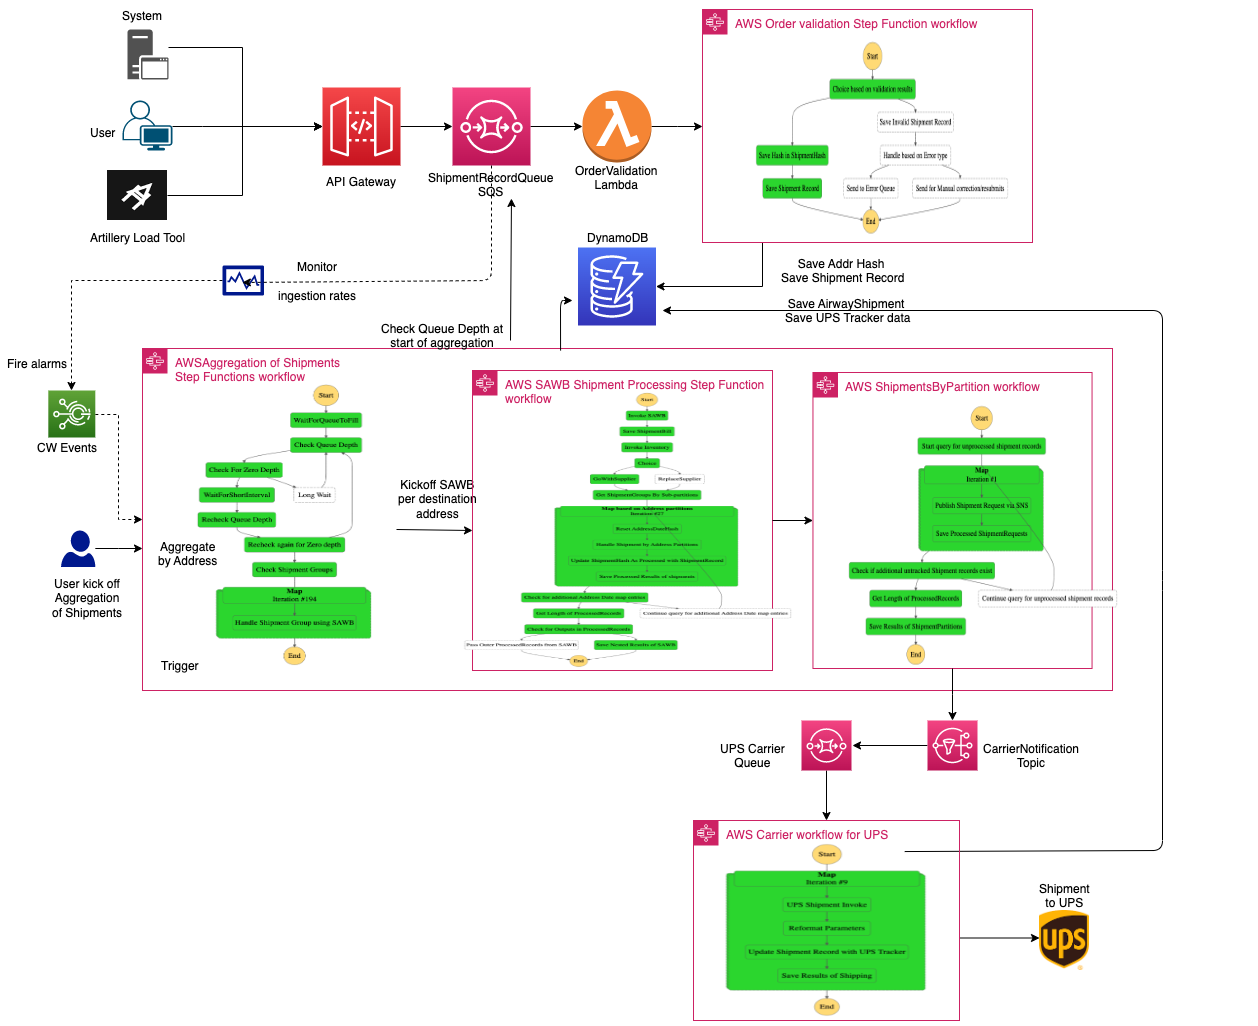
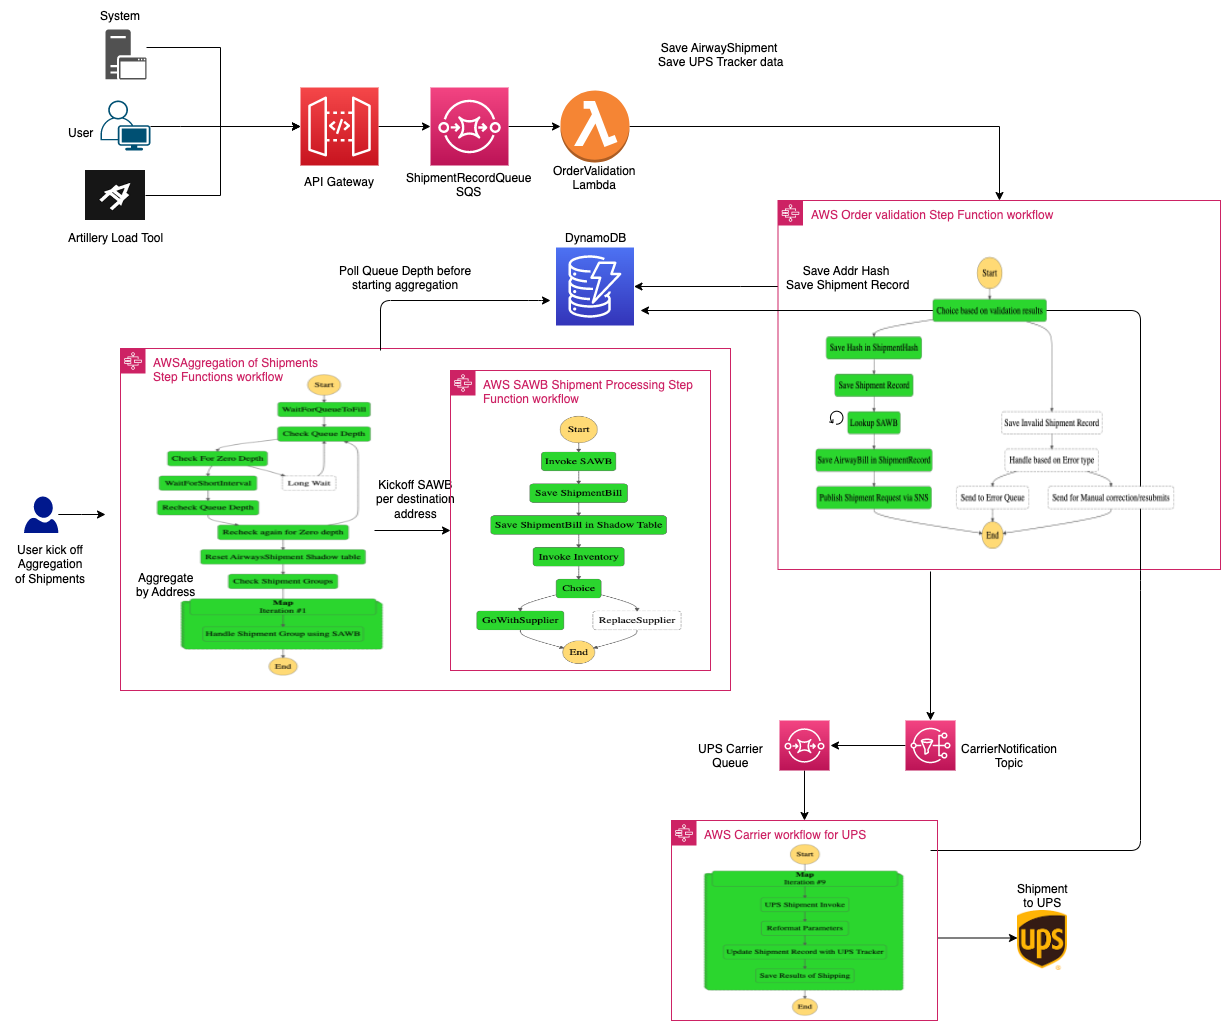
Update readme

diff --git a/README.md b/README.md
@@ -5,7 +5,7 @@ This sample project demonstrates airway shipment orchestration using AWS Serverl
 ##  Project structure
 The project contains source code and supporting files that you can deploy with the SAM CLI to build and test the sample application. It includes the following files and folders:
 * functions - AWS Lambda functions to handle processing of shipments requests from SQS and integration with various backend systems (including UPS shipping api).
-* statemachines - Definition for the AWS Step Functions that orchestrates the complex workflow of managing multiple Lambda and nested AWS child Step Functions.
+* statemachine - Definition for the AWS Step Functions that orchestrates the complex workflow of managing multiple Lambda and nested AWS child Step Functions.
 * template.yaml - A SAM template that defines the application's AWS resources.
 * testing - folder that contains artillery test configuration script for injecting requests into the system along with CloudWatch dashboard json template for monitoring various resources.
 
@@ -16,19 +16,17 @@ High level architecture:
 ![](imgs/AirwaysShipmentWorkflow-HighlevelArch.png)
 
 ### Step Functions:
-* `BusinessValidationStateMachine1` initially checks for validation errors and decides on normal processing, or manual resubmission or error processing based on validation errors. It creates an address hash based on shipment address along with a date + random partition hash (as there can be large number of shipments to same destination). It saves the individual records, hashes and shipment address in DynamoDB. Failed validations are passed onto Dead Letter Queue or different queues based on type of validation errors.
-![](imgs/BusinessValidationStateMachine1.png)
+* `AirwayShipmentWorkflowStateMachine1` initially checks for validation errors and decides on normal processing, or manual resubmission or error processing based on validation errors. It creates an address hash based on shipment address along with a date + random partition hash (as there can be large number of shipments to same destination). It saves the individual records, hashes and shipment address in DynamoDB. Then it waits for a Airways shipment bill to be generated for the destination address thats recent enough (handled by another state machine) before proceeding with association of the SAWB (shipment airways bill) with the actual shipment by the carrier using SNS. Failed validations are passed onto Dead Letter Queue or different queues based on type of validation errors.
 
-* `AggregationKickoffStateMachine2` aggregates the orders based on destination address for processing once the batch of shipments have been validated. This can be kicked off manually once we know the batch of shipment records has been validated and saved. For each unique shipment address in the batch, an instance of `SAWBProcessorStateMachine3` would be created using Step Funtion's Map construct. The AggregationKickoff Step Function invocation has to be done just once per submitted batch with no real inputs required for the AggregationKickoff state machine.
+Once the Airway shipment bill is associated with the shipment, it then fires off a SNS notification for handling by associated Carriers. The Carrier Notification SNS topic in turn publishes to a Shipment Carrier Queue. There can be multiple  subscribers for the SNS Topic (example: UPS, Fedex, USPS etc.) and each carrier workflow to handle the shipments can work at same time in a disconnected manner as the SNS/SQS decouples it from the main aggregation from actual carrier shipping operations.
+![](imgs/AirwayShipmentWorkflowStateMachine1.png)
 
-Option to automatically trigger the StepFunction based on number of shipments received in the `ShipmentRecordQueue` is also suported. Once the messages received in a minute grows beyond 300 (monitored using CloudWatch SQS related Metrics), it goes into alarm state and an alarm event gets published to a SNS topic that in turn invokes a Lambda function to trigger the Step Function execution. Edit the SAM template to tweak the alarm thresholds. For low volume testing, the 300 shipments might not be reached and in those cases, a manual trigger of the StepFunction execution would be required.
+* `AggregationKickoffStateMachine2` aggregates the orders based on destination address for processing once the batch of shipments have been validated. This can be kicked off manually once we know the specific OEM vendor handling the batch of shipment records that has been validated and saved. Invoke it using a json construct mentioning 'OEM' as  the key (Sample input: `{ "OEM": "MyTestOEM1" }` ). For each unique shipment address in the batch, an instance of `SAWBProcessorStandaloneStateMachine3` would be created using Step Function's Map construct. The AggregationKickoff Step Function invocation has to be done just once per submitted batch with the OEM for the AggregationKickoff state machine.
+
 <img src="https://github.com/sparameswaran/airway-shipment-orchestrator/blob/dev/imgs/AggregationKickoffStateMachine2.png" width=25% height=25%>
 
-* `SAWBProcessorStateMachine3` handles Airway shipment generation per unique destination address. Then it starts handling the shipments using a Map construct in Step Functions to handle the individual line items associated with an unique shipment address and assigned date + random partition. It takes an input argument of an existing hash of destination addresses partitions.
-<img src="https://github.com/sparameswaran/airway-shipment-orchestrator/blob/dev/imgs/SAWBProcessorStateMachine3.png" width=25% height=25%>
-
-* `ShipmentPartitionHandlerStateMachine4` associates the Airway shipment bill  with the shipment and then fires off a SNS notification for handling by associated Carriers. The Carrier Notification SNS topic in turn publishes to a Shipment Carrier Queue. There can be multiple  subscribers for the SNS Topic (example: UPS, Fedex, USPS etc.) and each carrier workflow to handle the shipments can work at same time in a disconnected manner as the SNS/SQS decouples it from the main aggregation from actual carrier shipping operations.
-<img src="https://github.com/sparameswaran/airway-shipment-orchestrator/blob/dev/imgs/ShipmentPartitionHandlerStateMachine4.png" width=25% height=25%>
+* `SAWBProcessorStateMachine3` handles Airway shipment bill generation per unique destination address. Then it saves the shipment bill into two tables - AirwayShipmentDetail and AirwayShipmentDetailShadow (just ongoing shipment bills that would be cleaned on each new aggregation kickoff). It takes an input argument of an existing hash of destination addresses partitions. Depending on available inventory, it would choose to go with existing or replacement supplier.
+<img src="https://github.com/sparameswaran/airway-shipment-orchestrator/blob/dev/imgs/SAWBProcessorStandaloneStateMachine3.png" width=25% height=25%>
 
 * `UPSShipmentHandlerStateMachine5` is the carrier specific workflow to handle the shipments by invoking actual carrier service endpoint and then associating the carrier tracker id and shipping response with the shipment.
 <img src="https://github.com/sparameswaran/airway-shipment-orchestrator/blob/dev/imgs/UPSShipmentHandlerStateMachine5.png" width=25% height=25%>
@@ -48,17 +46,21 @@ All the below tables are configured with on-demand capacity to handle large thro
 
 * `AirwaysShipmentDetail` contains the airway shipment bill generated per unique address against the aggregated shipments for a given batch submission.
 
+* `AirwaysShipmentDetailShadow` contains the current active set of airway shipment bill generated per unique address against the aggregated shipments for a given batch submission that gets cleaned up on every new OEM shipment aggregation kickoff.
+
 ![](imgs/DynamoDB-Structure.png)
 
 ### Key API Gateway and Lambda Functions
-* `AirwaysShipmentRestAPI` is an AWS APIGateway endpoint that accepts individual shipment records over a REST endpoint for submission to the `ShipmentRecordQueue` SQS Destination.
+* `AirwaysShipmentRestAPI` is an AWS APIGateway endpoint that accepts individual shipment records over a REST endpoint for submission to the `ShipmentRecordQueue` SQS Destination. Based on the OEM vendor, it would attach a message attribute to indicate the OEM vendor to the SQS publish.
 ![](imgs/APIGateway-Config.png)
 
-* `OrderValidationFunction` AWS Lambda Function consumes the shipment records from the `ShipmentRecordQueue` (submitted manually or via API Gateway integration) SQS Queue and validates the records before kicking off the `BusinessValidationStateMachine` for further processing per record.
+* `OrderValidationFunction` AWS Lambda Function consumes the shipment records from the `ShipmentRecordQueue` (submitted manually or via API Gateway integration) SQS Queue and validates the records before kicking off the `AirwayShipmentWorkflowStateMachine1` for further processing per record.
 
 * `AirwayShipmentGeneratorFunction` generates the airway shipment record while the Inventory/Supplier act as minor function for generating existing inventory and supplier information;
 
-* `ShipmentAddressGrouperFunction` and `ShipmentAddressDateGrouperFunction` are functions to lookup shipments by just destination address or along with the random partition that have not been assocaited with a carrier.
+* `SAWBShadowTableLookupFunction` lookups the latest airways shipment bill that matches a given OEM vendor (needs to have been generated within last 5 minutes or other user specified time window). This function is used by the AirwayShipmentWorkflowStateMachine1 to check and retry for the airway shipment bill generation in a loop before proceeding with association of the bill with individual shipment and SNS publish for carrier handling.
+
+* `ShipmentAddressGrouperFunction` and `ShipmentAddressDateGrouperFunction` are functions to lookup shipments by just destination address or along with the random partition that have not been associated with a carrier.
 
 * `UPSShipperFunction` is the UPS shipment handler function invoking UPS. Due to rate limits, it simulates the UPS Shipping response rather than actually hitting the UPS shipping endpoint. To truly invoke UPS, edit the environment variable `SIMULATE` to `false`, and also edit the client API ID and Secret and related Shipper Account Number with valid entries before redeploying the function.
 
@@ -66,27 +68,24 @@ All the below tables are configured with on-demand capacity to handle large thro
 Detailed architecture:
 ![](imgs/AirwaysShipmentWorkflow.png)
 
-The design allows Divide and Conquer using Child Step Functions to handle each distinct shipment address and further dividing the shipments using sub-partition based on date and some random numbers to ensure a single Step Function does not hit its [25K max execution event history](https://docs.aws.amazon.com/step-functions/latest/dg/bp-history-limit.html) while also increasing the parallelism using [Map](https://docs.aws.amazon.com/step-functions/latest/dg/amazon-states-language-map-state.html) constructs to fire off additional child step functions. The design was tested against 20K shipment requests with majority going to a specific destination address.
-
 The DynamoDB tables are created with on-demand capacity rather than provisioned to allows scaling on demand with higher loads. Additional reason for sub-partitioning is to avoid Hot Partition Key problem with DynamoDB when majority of the shipments go to the same destination address compared to rest.
 
-The main aggregation workflow is decoupled from the final carrier invocations using SNS Topic + SQS Queue. This design allows plugging in different carrier implementations with message filtering/selection and implementing routing to appropriate carrier, and enabling buffering and throttling when dealing with carriers without affecting main aggregation workflow.
+The individual shipment validation and aggregation workflow are decoupled from the final carrier invocations using SNS Topic + SQS Queue. This design allows plugging in different carrier implementations with message filtering/selection and implementing routing to appropriate carrier, and enabling buffering and throttling when dealing with carriers without affecting main aggregation workflow.
 ![](imgs/StepFunctionMapStructure.png)
 
 * Airways Shipment system accepts individual shipment requests via an API endpoint (deployed via SAM template) that gets saved as individual messages in `ShipmentRecordQueue` SQS Queue.
 * `OrderValidatorFunction` Lambda function subscribed to the `ShipmentRecordQueue` SQS Queue consumes the batch of messages and starts validating the entries and marks errors as required.
-  * For each individual message, the function creates a hash based on the shipping destination address.
-  * It then invokes `BusinessValidationStateMachine1` Step Function for each individual message passing along the actual shipment record, address hash along with any validation errors.
-* `BusinessValidationStateMachine1` Step Function goes through a decision tree to either process normally, and for invalid shipment submissions, save them in `InvalidShipmentRecord` table before deciding error handling via a Dead Letter Queue (DLQ) (`ShipmentRecordDLQueue`) or manual resubmission via  a different queue (`ShipmentRecordManualResubmitQueueName`) based on the error type.
-* Fully validated and error free shipments are then saved in DynamoDB Tables. The specific Address Hash is saved in `ShipmentHash` table with status indicating it was not processed while the complete message including the shipment record and addr hash is saved in `ShipmentRecord` table.
-* Once all the messages have been validated and saved using the above 2 services, the messages can be aggregated and processed for actual shipment.
-* The `AggregationKickoffStateMachine2` is invoked (no need for actual payload) and it queries DynamoDB `ShipmentHash` table for unprocessed unique addresses.
+  * For each individual message, the function creates a hash based on the shipping destination address and OEM vendor (passed as a SQS Message attribute along with actual shipment payload).
+  * It then invokes `AirwayShipmentWorkflowStateMachine1` Step Function for each individual message passing along the actual shipment record, address hash along with any validation errors.
+* `AirwayShipmentWorkflowStateMachine1` Step Function goes through a decision tree to either process normally, and for invalid shipment submissions, save them in `InvalidShipmentRecord` table before deciding error handling via a Dead Letter Queue (DLQ) (`ShipmentRecordDLQueue`) or manual resubmission via  a different queue (`ShipmentRecordManualResubmitQueueName`) based on the error type.
+* Fully validated and error free shipments are then saved in DynamoDB Tables. The specific Address Hash is saved in `ShipmentHash` table with status indicating it was not processed while the complete message including the shipment record and address hash is saved in `ShipmentRecord` table.
+* Once all the messages have been validated and saved using the above 2 services, it then checks for most recent airways shipment bill using the `SAWBShadowTableLookupFunction` function with a retry and exponential backoff logic mechanism. Once the shipment bill is available that matches the OEM vendor of the shipment, a message is published to the `ShipmentCarrierTopic` Topic that allows the actual carrier to handle the shipping. The Topic publishes to `ShipmentCarrierQueue` which gets picked by a ShipmentCarrier Lambda that in turn triggers UPS Carrier Shipping related workflow service.
+* The `AggregationKickoffStateMachine2` is invoked (with an OEM indictor as payload) and it queries DynamoDB `ShipmentHash` table for unprocessed unique addresses.
 * The list of address hashes along with the random partitions is passed to a Map function.
-  * For each unique address hash + partition discovered, a child step function `SAWBProcessorStateMachine3` is invoked to handle the actual airway shipment bill generation and for each entry going to the same address, UPS shipping service needs to be invoked with the relevant payload.
+  * For each unique address hash + partition discovered that matches the OEM vendor, a child step function `SAWBProcessorStandaloneStateMachine3` is invoked to handle the actual airway shipment bill generation and for each entry going to the same address.
   * `SAWBProcessorStateMachine3` handles generation of the Airway Shipment Bill using Lambda function `AirwayShipmentGeneratorFunction` (the shipment bill gets saved in `AirwaysShipmentDetail` table in DynamoDB) and then checks if inventory is available for that shipment for default supplier and switches the supplier as necessary before passing to another Map step that iterates over the individual shipment entries that are being sent via UPS to the same address.
-  * For each shipment, a message is published to the `ShipmentCarrierTopic` Topic that allows the actual carrier to handle the shipping. The Topic publishes to `ShipmentCarrierQueue` which gets picked by a ShipmentCarrier Lambda that in turn triggers UPS Carrier Shipping related workflow service.
   * `UPSShipmentHandlerStateMachine5` gets invoked to handle the Airways shipment bill and record, calls the UPS service and the results get updated in `ShipmentRecord` table.
-  * All the Shipment records with associated UPS or other carrier shipment labels are saved in DynamoDB `ShipmentRecord` table. Heavy writes and reads in DynamoDB can result in throttling as DynamoDB atempts to scale the table (when using on-demand capacity). Code attempts to retry with increasing backoff rates.
+  * All the Shipment records with associated UPS or other carrier shipment labels are saved in DynamoDB `ShipmentRecord` table. Heavy writes and reads in DynamoDB can result in throttling as DynamoDB attempts to scale the table (when using on-demand capacity). Code attempts to retry with increasing backoff rates.
 * Any repeat submissions to the Aggregation Step Function for an already processed address will return with no operations.
 
 ## Prerequisites
@@ -163,7 +162,7 @@ Steps:
   The post step would already have the correct `/dev` stage and actual resource path `/postshipment` prefilled inside config.json. This does not need to be modified.
   ```
   "post": {
-    "url": "/dev/postShipment",
+    "url": "/dev/postShipment/OEM1",
   ```
   Edit the `arrivalRate` to be small for initial testing (controls how many requests to submit in a given second)
   The duration parameter indicates how long to run the test which can be bumped up. Total number of submitted requests would be equal to (arrival rate * duration).
